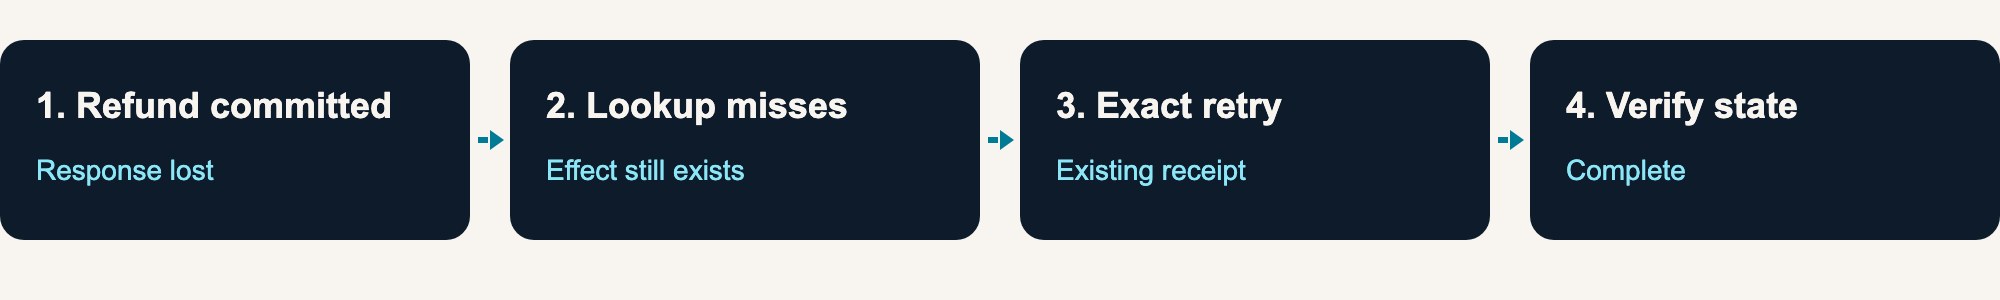
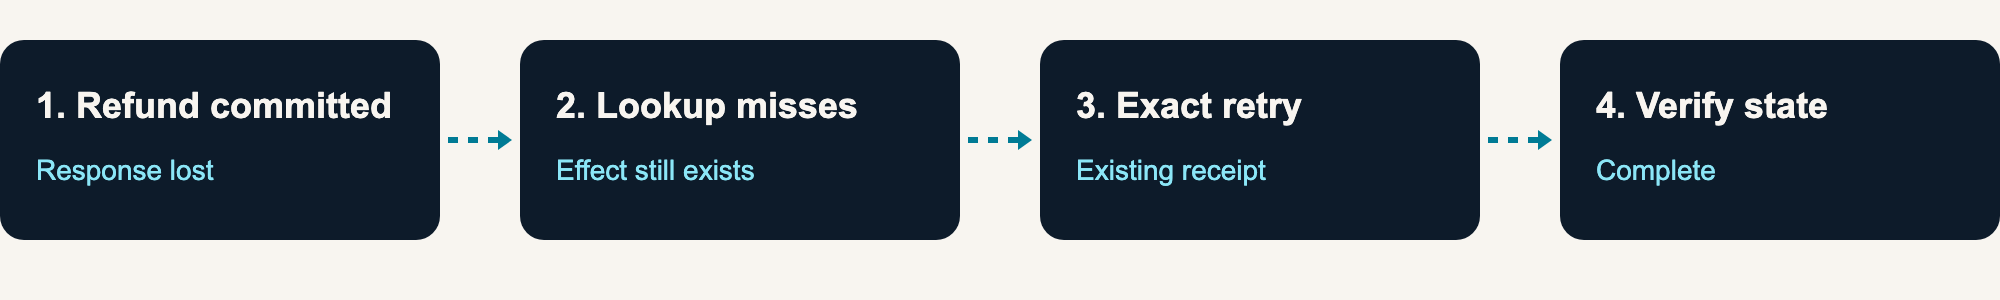
Give animated recovery connectors visible dash spacing

Changed region(s): [[0.713, 0.12, 0.93, 0.81], [0.217, 0.12, 0.434, 0.81], [0.465, 0.12, 0.651, 0.81]]

diff --git a/scripts/recovery_study.py b/scripts/recovery_study.py
@@ -82,8 +82,8 @@ def evidence():
 
 def svg(vertical=False):
     width, height = (320, 530) if vertical else (1000, 150)
-    nodes = [(20, 20 + i * 135) for i in range(4)] if vertical else [(i * 255, 20) for i in range(4)]
-    node_width = 280 if vertical else 235
+    nodes = [(20, 20 + i * 135) for i in range(4)] if vertical else [(i * 260, 20) for i in range(4)]
+    node_width = 280 if vertical else 220
     parts = [
         f'<svg xmlns="http://www.w3.org/2000/svg" class="recovery-flow" '
         f'viewBox="0 0 {width} {height}" role="img" aria-label="Refund committed, '
@@ -105,8 +105,8 @@ def svg(vertical=False):
                 parts += [f'<path class="recovery-connector" d="M160 {y+104}v24"/>',
                           f'<path class="arrow" d="M155 {y+124}l5 7 5-7Z"/>']
             else:
-                parts += [f'<path class="recovery-connector" d="M{x+239} 70h10"/>',
-                          f'<path class="arrow" d="M{x+245} 65l7 5-7 5Z"/>']
+                parts += [f'<path class="recovery-connector" d="M{x+224} 70h29"/>',
+                          f'<path class="arrow" d="M{x+249} 65l7 5-7 5Z"/>']
     return "".join(parts) + "</svg>"
 
 
@@ -123,7 +123,7 @@ def drawio():
                              value=f"{i+1}. {step[0]}\n{step[1]}",
                              style="rounded=1;fillColor=#0D1B2A;strokeColor=none;"
                                    "fontColor=#F8F5F0;fontFamily=Arial;fontSize=18;")
-        ET.SubElement(node, "mxGeometry", x=str(i*255), y="20", width="235",
+        ET.SubElement(node, "mxGeometry", x=str(i*260), y="20", width="220",
                       height="100", attrib={"as": "geometry"})
         if i:
             edge = ET.SubElement(root, "mxCell", id=f"edge-{i}", edge="1", parent="1",
